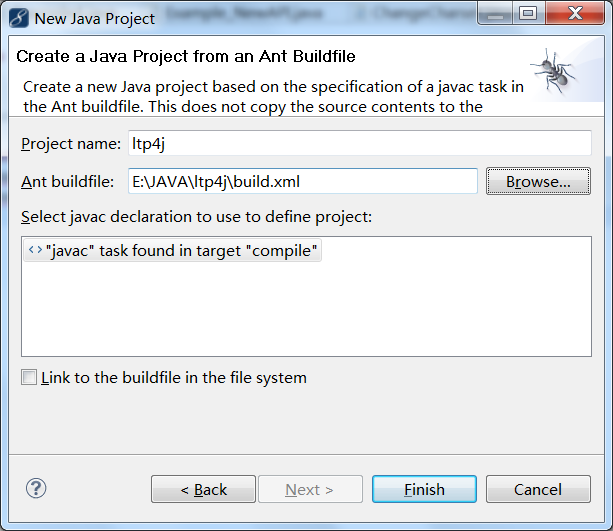
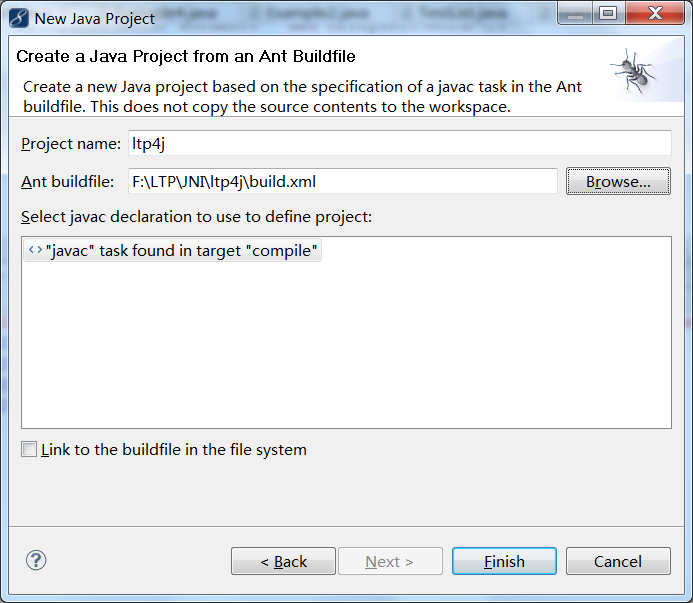
document

Changed region(s): [[0.0, 0.0, 1.0, 1.0]]

diff --git a/doc/ltp4j-document-1.0.md b/doc/ltp4j-document-1.0.md
@@ -5,7 +5,102 @@ LTP for Java编程接口v1.0
 
 (注：2.30以后，LTP的所有模型文件均使用UTF8编码训练，故请确保待分析文本的编码为UTF8格式)
 
-# 分词接口
+#简介
+ltp4j是对[LTP(Language Technology Platform)](https://github.com/ruoshui1126/ltp)接口的一个Java封装，方便Java用户在本地使用ltp。利用JNI技术实现。
+ltp4j项目由两部分组成
+* Java接口程序，利用ant能够直接编译构建为ltp4j.jar，方便用户导入使用。
+* C++代理程序，在项目/jni/目录下实现Java接口中的功能，利用CMake编译构建为动态库。
+
+#如何安装ltp4j
+
+##编译Java接口程序
+ltp4j.jar使用ant编译工具编译。 在命令行环境下，可以在项目根目录下使用
+
+    ant
+
+命令直接编译。 编译成功后，将在build_jar/jar下产生tp4j.jar。
+
+如果使用Eclipse，可以按照"File > New > Project... > Java Project from Existing Ant Buildfile"的方式从build.xml中创建项目。 选择next后，在Ant buildfile:一栏中
+填入build.xml的路径。 这里假设项目路径为F:\JNI\ltp4j, build.xml的路径就是E:\JNI\ltp4j\build.xml。
+
+
+![Eclipse](https://raw.githubusercontent.com/ruoshui1126/ltp4j/master/doc/java.png)
+
+点击Finish就导入了项目。
+
+在导入项目后，右键build.xml选择2 Ant Build。 在弹出的对话框中的选择main选项卡，并在Base Directory:中填入项目路径。 在本例子里，需要填入E:\JAVA\ltp4j。
+
+![BaseDirectory](https://raw.githubusercontent.com/ruoshui1126/ltp4j/master/doc/BaseDirectory.png)
+
+填好后执行run，build/jar下产生名为LTPService.jar的jar文件。
+
+##编译C++代理程序
+
+
+代理程序jni动态库依赖于ltp的动态库，所以在编译jni之前必须在本地安装了ltp，[LTP使用文档v3.0](https://github.com/HIT-SCIR/ltp/blob/master/doc/ltp-document-3.0.md)详细介绍了ltp，如果你之前对ltp不太了解，建议通篇阅读一下，如果对ltp比较熟悉，可以直接看“开始使用LTP”部分来安装ltp。
+
+
+###安装CMake
+jni程序使用编译工具CMake构建项目。在安装jni之前，你需要首先安装CMake。CMake的网站在[这里](http://www.cmake.org)。如果你是Windows用户，请下载CMake的二进制安装包；
+如果你是Linux，Mac OS或Cygwin的用户，可以通过编译源码的方式安装CMake，当然，你也可以使用Linux的软件源来安装。
+
+
+### Windows(MSVC)编译
+
+第一步：配置ltp的安装路径
+
+因为jni依赖于ltp，所以在编译过程中需要知道ltp的路径。修改项目根目录下的CMakeLists.txt，把其中的set (LTP_HOME "/home/yijialiu/work/ltp/")后面的路径改成你的ltp的安装路即可。
+
+第二步：构建VC Project
+
+在项目文件夹下新建一个名为build的文件夹，使用CMake Gui，在source code中填入项目文件夹，在binaries中填入build文件夹。然后Configure -> Generate。
+
+![win-cmake](https://raw.githubusercontent.com/ruoshui1126/ltp4j/master/doc/cmake.png)
+
+或者在命令行build 路径下运行
+
+        cmake ..
+
+第二步：编译
+
+### Linux，Mac OSX和Cygwin编译
+Linux、Mac OSX(*)和Cygwin的用户，可以直接在项目根目录下使用命令
+
+
+        cmake .
+        make
+
+
+进行编译。
+
+编译成功后，会在libs文件夹下生成以下一些动态库(**)
+
+| 程序名 | 说明 |
+| ------ | ---- |
+| split_sentence_jni.so | 分句动态库 |
+| segmentor_jni.so | 分词动态库 |
+| postagger_jni.so| 词性标注动态库 |
+| parser_jni.so | 依存句法分析动态库 |
+| ner_jni.so | 命名实体识别动态库 |
+| srl_jni.so | 语义角色标注动态库 |
+
+###注意事项
+
+* **该处编译需要设置Java环境变量JAVA_HOME**。
+* **需要保持c++编译器与JDK同是32位或者64位，否则JVM不能加载生成的动态库**
+
+#开始使用
+
+构建需要在本地使用ltp的工程
+* 导入ltp4j.jar
+* windows下将libs文件夹中生成的所有动态库、以及原ltp lib文件夹下的splitsnt、segmentor、postagger、ner、parser、srl 6个动态库拷贝到项目根目录
+* linux下export LD_LIBRARY_PATH=#jni动态库路径#
+
+接下来便可仿照下面各个接口的例子使用ltp啦。
+
+#编程接口
+
+## 分词接口
 
 edu.ir.hit.ltp4j.Segmentor
 
@@ -88,7 +183,7 @@ edu.ir.hit.ltp4j.Segmentor
       if(Segmentor.create("../../../ltp_data/cws.model")<0){
        System.err.println("load failed");
        return;
-     }      
+     }
 
      String sent = "我是中国人";
      List<String> words = new ArrayList<String>();
@@ -99,19 +194,19 @@ edu.ir.hit.ltp4j.Segmentor
        System.out.print(words.get(i));
       if(i==size-1) {
        System.out.println();
-      }      
+      }
       else{  
        System.out.print("      ");
-     }      
-     }      
+     }
+     }
 
       Segmentor.release();
-    }      
+    }
 
     }
 
 
-# 词性标注接口
+## 词性标注接口
 edu.ir.hit.ltp4j.Postagger
 
 词性标注主要提供三个接口
@@ -199,7 +294,7 @@ edu.ir.hit.ltp4j.Postagger
 
     }
 
-# 命名实体识别接口
+## 命名实体识别接口
 
 edu.ir.hit.ltp4j.NER
 
@@ -208,8 +303,6 @@ edu.ir.hit.ltp4j.NER
 **int create**
 
 功能：
-
-读取模型文件，初始化命名实体识别器
 
 参数：
 
@@ -243,7 +336,6 @@ edu.ir.hit.ltp4j.NER
 |-------|----------|
 |java.util.List< String > words | 待识别的词序列 |
 |java.util.List< String > postags | 待识别的词的词性序列 |
-|java.util.List< String > tags | 命名实体识别结果，命名实体识别的结果为O时表示这个词不是命名实体，否则为{POS}-{TYPE}形式的标记，POS代表这个词在命名实体中的位置，TYPE表示命名实体类型|
 
 返回值：
 
@@ -260,7 +352,7 @@ edu.ir.hit.ltp4j.NER
       if(NER.nercreate("../../../ltp_data/ner.model")<0) {
        System.err.println("load failed");
         return;          
-      }          
+      }
        List<String> words = new ArrayList<String>();
        List<String> tags = new ArrayList<String>();
        List<String> ners = new ArrayList<String>();
@@ -279,14 +371,14 @@ edu.ir.hit.ltp4j.NER
 
       for (int i = 0; i < words.size(); i++) {
         System.out.println(ners.get(i));
-       }          
+       }
 
       NER.release();
 
      }
      }
 
-# 依存句法分析接口
+## 依存句法分析接口
 edu.ir.hit.ltp4j.Parser
 依存句法分析主要提供三个接口：
 
@@ -344,8 +436,6 @@ edu.ir.hit.ltp4j.Parser
     import edu.hit.ir.ltp4j.*;
 
 
-    public class TestParser {
-
     public static void main(String[] args) {
      if(ParserJNI.parsercreate("../../../ltp_data/parser.model")<0) {
       System.err.println("load failed");
@@ -377,9 +467,8 @@ edu.ir.hit.ltp4j.Parser
 
 
 
-**注意，对于一个包含N个词的句子，句法分析返回的父节点返回在0至N之间，而语义角色标注的输入需要在-1至N-1之间。因此，若要在句法分析后进行语义角色标注，需要把heads作减一操作**
 
-# 语义角色标注接口
+## 语义角色标注接口
 edu.ir.hit.ltp4j.SRL
 依存句法分析主要提供三个接口：
 
@@ -421,7 +510,7 @@ edu.ir.hit.ltp4j.SRL
 |---|---|
 |java.util.List< String > words | 待分析的词序列 |
 |java.util.List< String > postags | 待分析的词的词性序列 |
-|java.util.List< String > ners| 待分析的命名实体序列 
+|java.util.List< String > ners| 待分析的命名实体序列
 |java.util.List< Integer > heads | 待分析的依存弧，heads[i]代表第i个词的父亲节点的编号 |
 |java.util.List< String > deprels | 待分析的依存弧关系类型 |
 | List< Pair< Integer, List< Pair< String, Pair< Integer, Integer > > > > > srls | 结果语义角色标注 |
@@ -437,8 +526,6 @@ edu.ir.hit.ltp4j.SRL
     import java.util.ArrayList;
     import java.util.List;
     import edu.hit.ir.ltp4j.*;
-
-    public class Srl {
       public static void main(String[] args) {
         SRL.create("../../../ltp_data/srl");
         ArrayList<String> words = new ArrayList<String>();
@@ -478,3 +565,7 @@ edu.ir.hit.ltp4j.SRL
       }
 
     }
+    
+###注意事项
+
+* **对于一个包含N个词的句子，句法分析返回的父节点范围在0至N之间，而语义角色标注的输入需要在-1至N-1之间。因此，若要在句法分析后进行语义角色标注，需要把heads作减一操作。**

diff --git a/README.md b/README.md
@@ -1,88 +1,7 @@
 # ltp4j: Language Technology Platform For Java
+##简介
+ltp4j是对[LTP(Language Technology Platform)](https://github.com/ruoshui1126/ltp)接口的一个Java封装，方便Java用户在本地使用ltp。利用JNI技术实现。
+##文档
 
-ltp4j是对[ltp](https://github.com/ruoshui1126/ltp)接口的一个Java封装，方便Java用户在本地使用ltp。利用JNI技术实现。
+关于ltp4j的使用，请参考[ltp4j使用文档v1.0](https://github.com/ruoshui1126/ltp4j/blob/master/doc/ltp4j-document-1.0.md)
 
-##如何安装ltp4j
-
-ltp4j由两部分组成，分别是Java接口代码和ltp的JNI封装代码，分别在src/与jni/目录下。
-
-要使用ltp4j需要编译Java接口代码生成ltp4j.jar以及编译jni代码生成c++动态库，然后将二者导入你的工程即可。
-* **注意需要保持c++编译器与JDK同是32位或者64位，否则JVM不能加载生成的动态库**
-
-
-###编译ltp4j.jar
-ltp4j.jar使用ant编译工具编译。 在命令行环境下，可以在项目根目录下使用
-
-    ant
-
-命令直接编译。 编译成功后，将在build/jar下产生名为LTPNative.jar的jar文件。
-
-
-如果使用Eclipse，可以按照"File > New > Project... > Java Project from Existing Ant Buildfile"的方式从build.xml中创建项目。 选择next后，在Ant buildfile:一栏中填入build.xml的路径。 这里假设项目路径为E:\work\projects\ltp4j。 build.xml的路径就是E:\work\projects\ltp4j\build.xml。
-
-![Eclipse](http://ir.hit.edu.cn/~yjliu/image/2013-7-12-cmake-win-setup.png)
-
-点击Finish就导入了项目。
-
-在导入项目后，右键build.xml选择2 Ant Build。 在弹出的对话框中的选择main选项卡，并在Base Directory:中填入项目路径。 在本例子里，需要填入E:\work\projects\ltp-cloud-sdk\JAVA。
-
-###编译jni
-jni动态库依赖于ltp的动态库，所以在编译jni之前必须在本地安装了ltp，[LTP使用文档v3.0](https://github.com/HIT-SCIR/ltp/blob/master/doc/ltp-document-3.0.md)详细介绍了ltp，如果你之前对ltp不太了解，建议通篇阅读一下，如果对ltp比较熟悉，可以直接看“开始使用LTP”部分来安装ltp。
-
-* **注意该处编译需要设置Java环境变量JAVA_HOME**。
-
-在本地安装好了ltp，就可以编译jni了。
-
-####安装CMake
-LTP使用编译工具CMake构建项目。在安装LTP之前，你需要首先安装CMake。CMake的网站在[这里](http://www.cmake.org)。如果你是Windows用户，请下载CMake的二进制安装包；如果你是Linux，Mac OS或Cygwin的用户，可以通过编译源码的方式安装CMake，当然，你也可以使用Linux的软件源来安装。
-
-#### Windows(MSVC)编译
-
-第一步：修改CMakeLists.txt
-修改项目根目录下的CMakeLists.txt，把其中的set (LTP_HOME "/home/yijialiu/work/ltp/")后面的路径改成你的ltp的安装路
-第二步：构建VC Project
-
-在项目文件夹下新建一个名为build的文件夹，使用CMake Gui，在source code中填入项目文件夹，在binaries中填入build文件夹。然后Configure -> Generate。
-
-![win-cmake](http://ir.hit.edu.cn/~yjliu/image/2013-7-12-cmake-win-setup.png)
-
-或者在命令行build 路径下运行
-
-        cmake ..
-
-第二步：编译
-
-构建后得到ALL_BUILD、RUN_TESTS、ZERO_CHECK三个VC Project。使用VS打开ALL_BUILD项目，选择Release(*)方式构建项目。
-
-#### Linux，Mac OSX和Cygwin编译
-Linux、Mac OSX(*)和Cygwin的用户，可以直接在项目根目录下使用命令
-
-
-        cmake .
-        make
-
-
-进行编译。
-
-编译成功后，会在libs文件夹下生成以下一些动态库(**)
-
-| 程序名 | 说明 |
-| ------ | ---- |
-| split_sentence_jni.so | 分句动态库 |
-| segmentor_jni.so | 分词动态库 |
-| postagger_jni.so| 词性标注动态库 |
-| parser_jni.so | 依存句法分析动态库 |
-| ner_jni.so | 命名实体识别动态库 |
-| srl_jni.so | 语义角色标注动态库 |
-
-###开始使用
-
-构建使用Java接口ltp4j的工程
-* 导入ltp4j.jar
-* windows下将libs文件夹中生成的所有动态库，以及原ltp lib文件夹下的splitsnt、segmentor、postagger、ner、parser、srl 6个动态库拷贝到项目根目录
-* linux下export LD_LIBRARY_PATH=#jni动态库路径#
-
-接下来便可仿照上面各个接口的例子使用ltp啦。
-##编程接口
-见[接口说明文档](https://github.com/ruoshui1126/ltp4j/blob/master/doc/ltp4j-document-1.0.md)
-* **注意，对于一个包含N个词的句子，句法分析返回的父节点范围在0至N之间，而语义角色标注的输入需要在-1至N-1之间。因此，若要在句法分析后进行语义角色标注，需要把heads作减一操作。**
